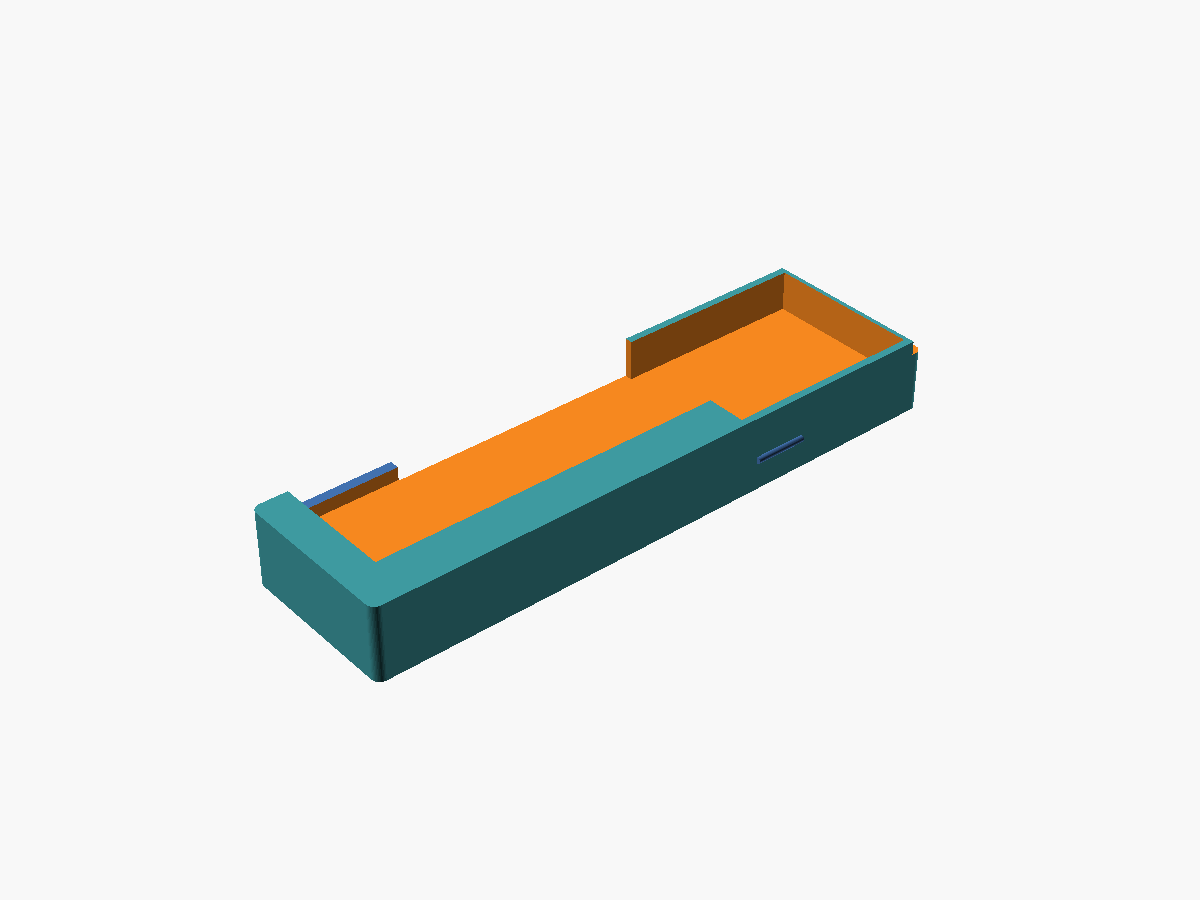
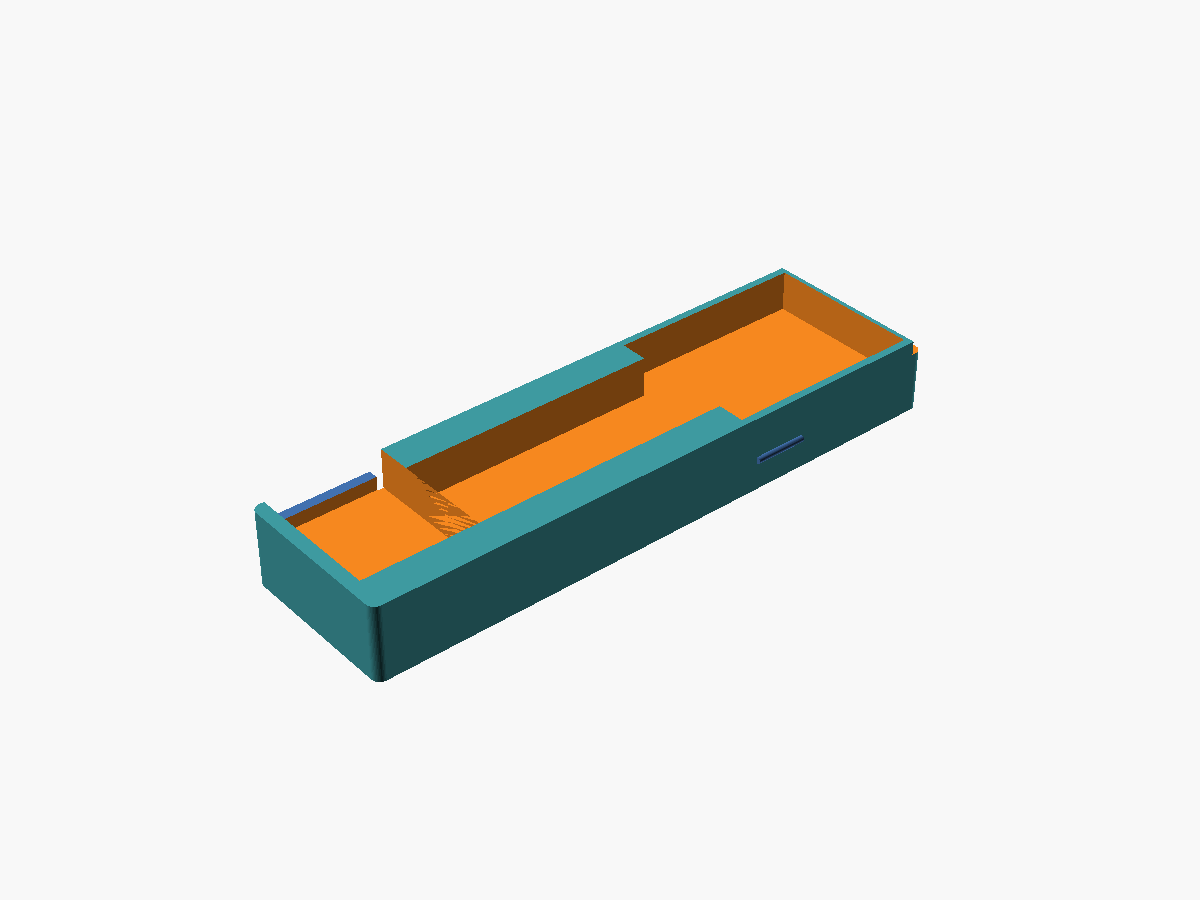
mac: quit System Settings before reopening Accessibility pane
The Permissions button ran `tccutil reset` but the Privacy →
Accessibility list caches its rows and does not live-refresh, so it
kept showing a stale "on" toggle for the entry we had just cleared.
That was misleading: after a reset the running (ad-hoc-signed) build is
actually untrusted, but the stale "on" made it look already granted, so
the user never re-enabled it and synthesized media/key events kept
silently failing.

Quit System Settings (and its legacy name) before reopening the pane so
it loads a fresh list reflecting the true state, with a short delay so
the app fully terminates before relaunch.

Changed region(s): [[0.2158, 0.3733, 0.6167, 0.6533]]

diff --git a/mac/MagicKeys/Sources/Permissions.swift b/mac/MagicKeys/Sources/Permissions.swift
@@ -15,11 +15,34 @@ enum Permissions {
 
     /// One-click flow: clear the old grant, then prompt for Accessibility and
     /// Notifications and open the Accessibility settings pane to toggle it on.
+    ///
+    /// System Settings is quit first so the Privacy list reopens fresh — the
+    /// pane caches its rows and will otherwise show a stale "on" toggle for the
+    /// entry we just cleared, which is misleading (a dev rebuild's signature no
+    /// longer matches, so the running process is actually untrusted until the
+    /// user re-enables it).
     static func requestAll() {
         resetAccessibilityGrant()
         promptAccessibility()
-        openAccessibilitySettings()
         requestNotifications()
+        quitSystemSettings()
+        // Let System Settings fully terminate before reopening, so the pane
+        // loads a fresh list rather than the cached one it was just showing.
+        DispatchQueue.main.asyncAfter(deadline: .now() + 0.4) {
+            openAccessibilitySettings()
+        }
+    }
+
+    /// Quits System Settings (and its legacy name) so it can't show a cached
+    /// snapshot of the Accessibility list when we reopen it.
+    private static func quitSystemSettings() {
+        for name in ["System Settings", "System Preferences"] {
+            let process = Process()
+            process.executableURL = URL(fileURLWithPath: "/usr/bin/killall")
+            process.arguments = [name]
+            try? process.run()
+            process.waitUntilExit()
+        }
     }
 
     /// `tccutil reset` removes this bundle id from the Accessibility list, so the
